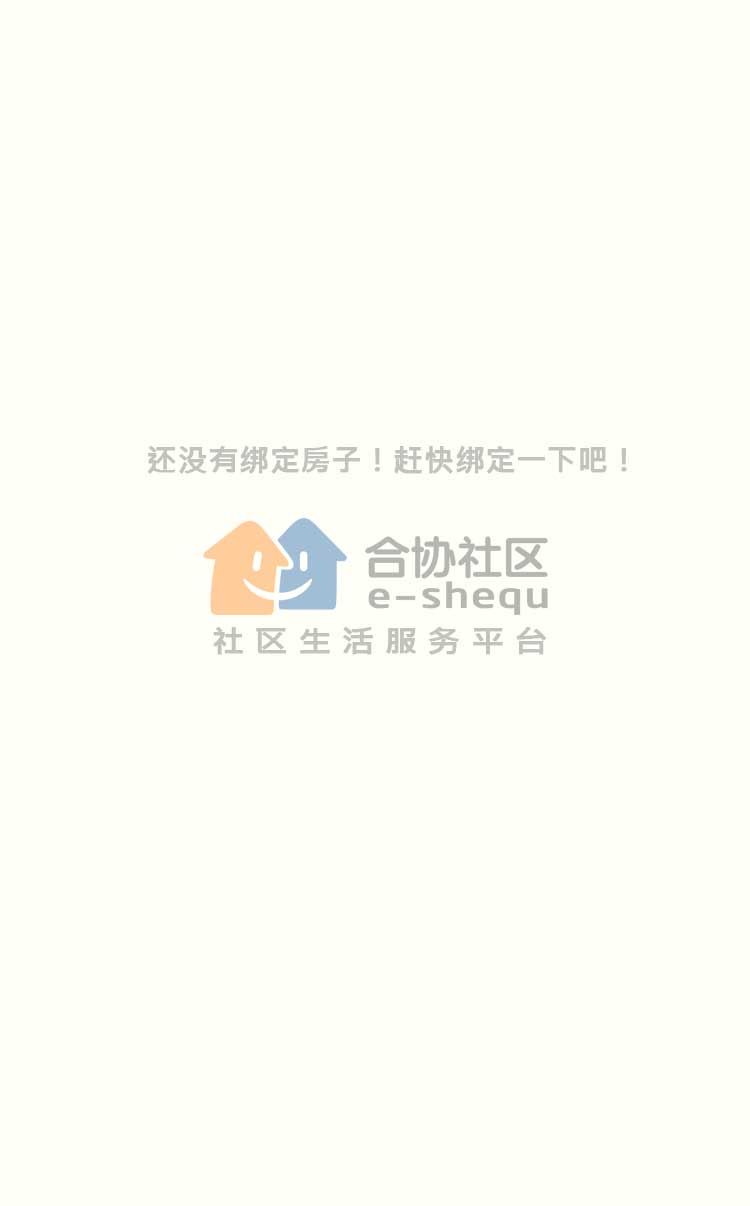
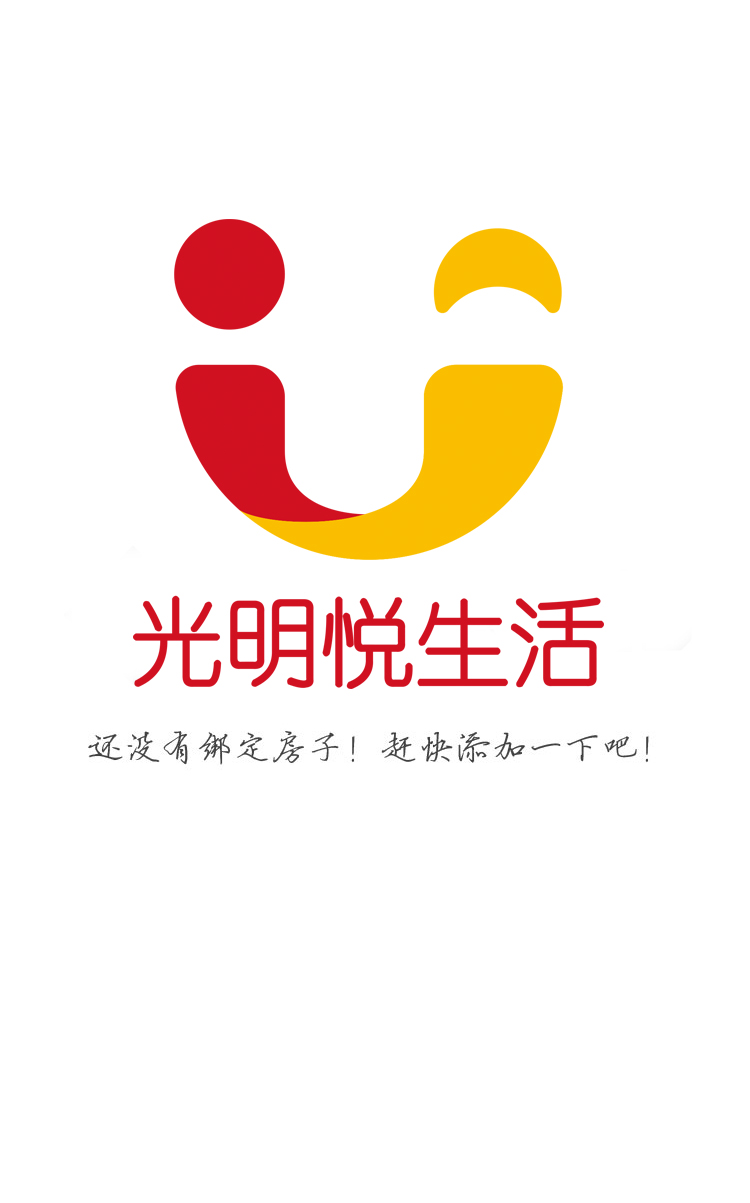
guangming init

diff --git a/person/index.html b/person/index.html
@@ -180,36 +180,15 @@
             <span class="input-info lf30 fs16">常用地址</span>
             <span class="fr fs14 left_color">收货地址&nbsp;&nbsp;&nbsp;&nbsp;</span>
         </a>
-
- 
-
     </div>
-    <div class="info-wrap" style="border-bottom: none;">
-    	<a href="abort.html" class="input-wrap menu-person-link  lite-divider">
-        	
-            <span class="input-info lf30 fs16">关注我们</span>
-        </a>
-        <a href="tel:021-50876295" class="input-wrap menu-person-link lite-divider special-link ">
-        	
-            <span class="input-info lf30 fs16">客服电话</span>
-            <span class="fr fs14 left_color">021-50876295</span>
-        </a>
-        <!--<a href=" " class="input-wrap menu-person-link ">   
-            <span class="input-info lf30 fs16">在线客服</span>
-        </a>-->
-    </div>
-    <div class="bottom-info divider" style="text-align: center; display: block;">
-		<div class="divider highlight" style="text-align: center;width:100%;font-size:16px">长按关注光明悦生活，尊享更多服务和商品</div>
-		<img style="width: 200px;" src="http://7xkdq7.com1.z0.glb.clouddn.com/hexieshequ.jpg">
-	</div>
-    <div style="height: 6rem;"></div>
+	
     <footer class="footer">
         <nav>
          	<ul>
-                <li><a href="../home/index.html?v=20160229" class="nav-controller"><i class="footer_logo footer_home"></i>服务</a></li>
-                <li><a href="../group/onsalesindex.html?v=20160229" class="nav-controller"><i class="footer_logo footer_temai"></i>集市</a></li>
-	            <li><a href="../wuye/index.html?v=20160229" class="nav-controller"><i class="footer_logo footer_wuye"></i>社区</a></li>
-                <li><a href="../person/index.html?v=20160229" class="nav-controller active"><i class="footer_logo footer_person_selected"></i>我的</a></li>
+                <li><a href="../home/index.html?v=20160229" class="nav-controller"><i class="footer_logo footer_home"></i>悦服务</a></li>
+                <li><a href="../group/onsalesindex.html?v=20160229" class="nav-controller"><i class="footer_logo footer_temai"></i>悦商城</a></li>
+	            <li><a href="../wuye/index.html?v=20160229" class="nav-controller"><i class="footer_logo footer_wuye"></i>悦社区</a></li>
+                <li><a href="../person/index.html?v=20160229" class="nav-controller active"><i class="footer_logo footer_person_selected"></i>悦业主</a></li>
             </ul>
         </nav>
     </footer>

diff --git a/wuye/index.html b/wuye/index.html
@@ -263,6 +263,7 @@
         <span class="city" >{{city}}</span>
         <span class="xiaoqu">{{xiaoquName}}</span>
     </div>
+	<!--
     <div class="main">
         <div class="section2">
             <div class="section2_sub">
@@ -275,6 +276,7 @@
                 </div>
             </div>
         </div>
+		-->
         <div class="section1">
             <div class="section1_sub1">
                 <a ms-click="gotopay()">
@@ -355,10 +357,10 @@
 <footer class="footer">
     <nav>
         <ul>
-            <li><a href="../home/index.html?v=20160229" class="nav-controller "><i class="footer_logo footer_home"></i>服务</a></li>
-            <li><a href="../group/onsalesindex.html?v=20160229" class="nav-controller"><i class="footer_logo footer_temai"></i>集市</a></li>
-            <li><a href="../wuye/index.html?v=20160229" class="nav-controller active"><i class="footer_logo footer_wuye_selected"></i>社区</a></li>
-            <li><a href="../person/index.html?v=20160229" class="nav-controller"><i class="footer_logo footer_person"></i>我的</a></li>
+            <li><a href="../home/index.html?v=20160229" class="nav-controller "><i class="footer_logo footer_home"></i>悦服务</a></li>
+            <li><a href="../group/onsalesindex.html?v=20160229" class="nav-controller"><i class="footer_logo footer_temai"></i>悦商城</a></li>
+            <li><a href="../wuye/index.html?v=20160229" class="nav-controller active"><i class="footer_logo footer_wuye_selected"></i>悦社区</a></li>
+            <li><a href="../person/index.html?v=20160229" class="nav-controller"><i class="footer_logo footer_person"></i>悦业主</a></li>
         </ul>
     </nav>
 </footer>

diff --git a/group/onsalesindex.html b/group/onsalesindex.html
@@ -137,10 +137,10 @@
     <footer class="footer">
         <nav>
             <ul>
-                <li><a href="../home/index.html?v=20160229" class="nav-controller"><i class="footer_logo footer_home"></i>服务</a></li>
-                <li><a href="../group/onsalesindex.html?v=20160229" class="nav-controller active"><i class="footer_logo footer_temai_selected"></i>集市</a></li>
-                <li><a href="../wuye/index.html?v=20160229" class="nav-controller"><i class="footer_logo footer_wuye"></i>社区</a></li>
-                <li><a href="../person/index.html?v=20160229" class="nav-controller"><i class="footer_logo footer_person"></i>我的</a></li>
+                <li><a href="../home/index.html?v=20160229" class="nav-controller"><i class="footer_logo footer_home"></i>悦服务</a></li>
+                <li><a href="../group/onsalesindex.html?v=20160229" class="nav-controller active"><i class="footer_logo footer_temai_selected"></i>悦商城</a></li>
+                <li><a href="../wuye/index.html?v=20160229" class="nav-controller"><i class="footer_logo footer_wuye"></i>悦社区</a></li>
+                <li><a href="../person/index.html?v=20160229" class="nav-controller"><i class="footer_logo footer_person"></i>悦业主</a></li>
             </ul>
         </nav>
     </footer>

diff --git a/home/index.html b/home/index.html
@@ -243,10 +243,10 @@
 	<footer class="footer">
 	    <nav>
 	    	<ul>
-	            <li><a href="../home/index.html?v=20160229" class="nav-controller active"><i class="footer_logo footer_home_selected"></i>服务</a></li>
-                <li><a href="../group/onsalesindex.html?v=20160229" class="nav-controller"><i class="footer_logo footer_temai"></i>集市</a></li>
-	            <li><a href="../wuye/index.html?v=20160229" class="nav-controller"><i class="footer_logo footer_wuye"></i>社区</a></li>
-	            <li><a href="../person/index.html?v=20160229" class="nav-controller"><i class="footer_logo footer_person"></i>我的</a></li>
+	            <li><a href="../home/index.html?v=20160229" class="nav-controller active"><i class="footer_logo footer_home_selected"></i>悦服务</a></li>
+                <li><a href="../group/onsalesindex.html?v=20160229" class="nav-controller"><i class="footer_logo footer_temai"></i>悦商城</a></li>
+	            <li><a href="../wuye/index.html?v=20160229" class="nav-controller"><i class="footer_logo footer_wuye"></i>悦社区</a></li>
+	            <li><a href="../person/index.html?v=20160229" class="nav-controller"><i class="footer_logo footer_person"></i>悦业主</a></li>
 	        </ul>
 	    </nav>
 	</footer>

diff --git a/wuye/pay.js b/wuye/pay.js
@@ -493,8 +493,10 @@ avalon.ready(function() {
      			}
 			}
             var pay_addr = billList[0].pay_cell_addr;
-            var url = MasterConfig.C("basePageUrl")+"paymentdetail.html?billIds="+bills+
-            	"&stmtId="+o.stmtId+"&payAddr="+escape(pay_addr)+"&totalPrice="+total_pay+"&reduceMode="+o.reduceMode;
+			var url = "http://www.e-shequ.com/pay/gm"+"paymentdetail.html?billIds="+bills+
+            	"&stmtId="+o.stmtId+"&payAddr="+escape(pay_addr)+"&totalPrice="+total_pay+"&reduceMode="+o.reduceMode+"&from=gm";
+            //var url = MasterConfig.C("basePageUrl")+"paymentdetail.html?billIds="+bills+
+            //	"&stmtId="+o.stmtId+"&payAddr="+escape(pay_addr)+"&totalPrice="+total_pay+"&reduceMode="+o.reduceMode;
             window.location.href = url;
         }
     });

diff --git a/home/baojie1/richang.html b/home/baojie1/richang.html
@@ -10,7 +10,7 @@
 		<script src="../../static/js/jquery.js"></script>
 		<script src="../../static/js/common_v3.js"></script>
 		<script src="../../static/js/swiper.js"></script>
-		<script src="richang.js"></script>
+		<script src="richang.js?v=1"></script>
 		<style type="text/css">
 			body{
 				margin:0;
@@ -228,7 +228,7 @@
     	</div>
     	<div class="remind">
 			<div class="title2">
-				<span><img src="../../static/img/baojie/icon_wenxintishi_07.png" />温馨提示</span>
+				<span><img src="../../static/img/baojie/icon_wenxintishi_07.png" />温馨提示 </span>
 			</div>
 			<div class="detail" ms-html="item.extraDesc2"></div>
 			<!--<div class="detail">1.清洁工具和清洁用品需要亲提前准备.</div>

diff --git a/home/baojie1/richang.js b/home/baojie1/richang.js
@@ -24,7 +24,11 @@ avalon.ready(function() {
         item:{price:0},
         gotoPay:function(){
             if(common.checkRegisterStatus()&&o.item.id){
-                location.href="../../baojie_richang_pay.html?item="+o.item.id;
+                //location.href="../../baojie_richang_pay.html?item="+o.item.id;
+				var url = MasterConfig.C("payPageFolder")+MasterConfig.C("payPageSuffix");
+                url += "baojie_richang_pay.html?item="+o.item.id;
+                url += "&basePageUrl="+escape(MasterConfig.C("basePageUrl"));
+                location.href=url;
             }
         }
     });

diff --git a/home/xiyi/bags.js b/home/xiyi/bags.js
@@ -31,7 +31,11 @@ avalon.ready(function(){
 			}
 		}
 		common.invokeApi("POST", "home/putToCart", {"items":items}, null, function(n){
-			location.href="../../xiyi_pay.html";
+			//location.href="../../xiyi_pay.html";
+			var url = MasterConfig.C("payPageFolder")+MasterConfig.C("payPageSuffix");
+            url += "xiyi_pay.html";
+            url += "?basePageUrl="+escape(MasterConfig.C("basePageUrl"));
+			location.href=url;
 		}, function(n){
 			
 		});

diff --git a/buy.html b/buy.html
@@ -14,7 +14,7 @@
 	<script src="static/js/fastclick.min-1.0.6.js?v=20151217"></script>
 	<script src="static/js/avalon.js"></script>
 	<script src="static/js/common_v3.js?v=20151217"></script>
-	<script src="buy.js?v=201512171"></script>
+	<script src="buy.js?v=201512111171"></script>
 	<script src="common/commonaddress.js?v=20151217"></script>
 	<script src="common/coupons.js?v=20151217"></script>
  <style>

diff --git a/group/onsaledetail.html b/group/onsaledetail.html
@@ -14,7 +14,7 @@
 	<script src="../static/js/fastclick.min-1.0.6.js?v=20151217"></script>
 	<script src="../static/js/avalon.js"></script>
 	<script src="../static/js/common_v3.js?v=20151217"></script>
-	<script src="onsaledetail.js?v=20151219"></script>
+	<script src="onsaledetail.js?v=201151219"></script>
     <script src="../static/js/swiper.js"></script>
  <style>
 [ms-controller]{display:none} 

diff --git a/group/onsaledetail.js b/group/onsaledetail.js
@@ -121,6 +121,10 @@ avalon.ready(function() {
 
         	if(common.checkRegisterStatus()&&o.rule.id){
         		location.href="../buy.html?type=3&ruleId="+o.rule.id;
+				//var url = MasterConfig.C("payPageFolder")+MasterConfig.C("payPageSuffix");
+				//url += "buy.html";
+				//url += "?basePageUrl="+escape(MasterConfig.C("basePageUrl"));
+				//location.href=url;
         	}
         },
 

diff --git a/buy.js b/buy.js
@@ -172,6 +172,9 @@ avalon.ready(function() {
 	        		alert("订单处理中，请勿重复提交！");
 	        		return;
 	        	}
+				//for show
+				alert("订单处理中，请勿重复提交！");
+	        	return;
 	        	var order = {
 	        			orderType:o.model.type,
 	        			productId:o.model.product.id,
